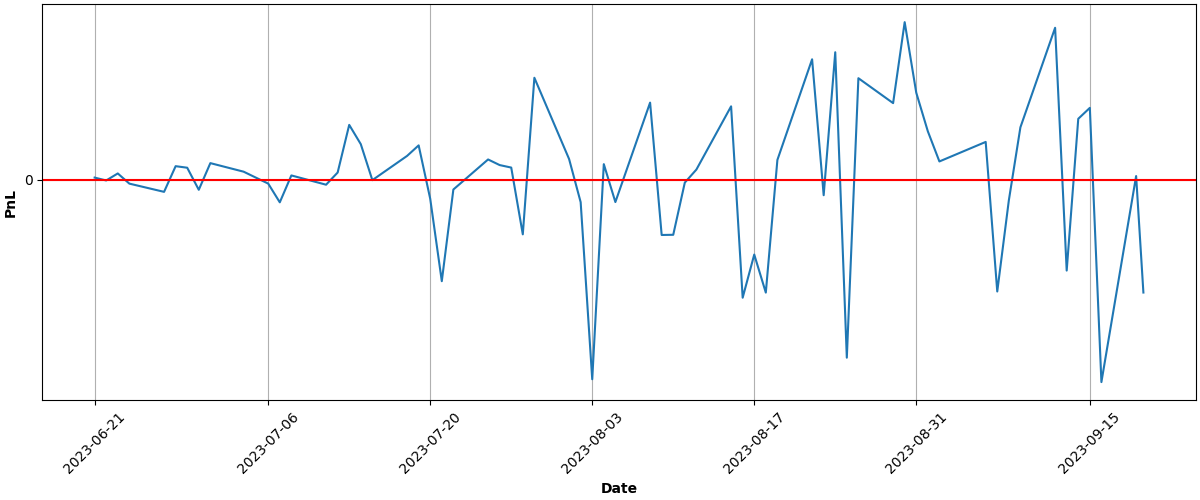
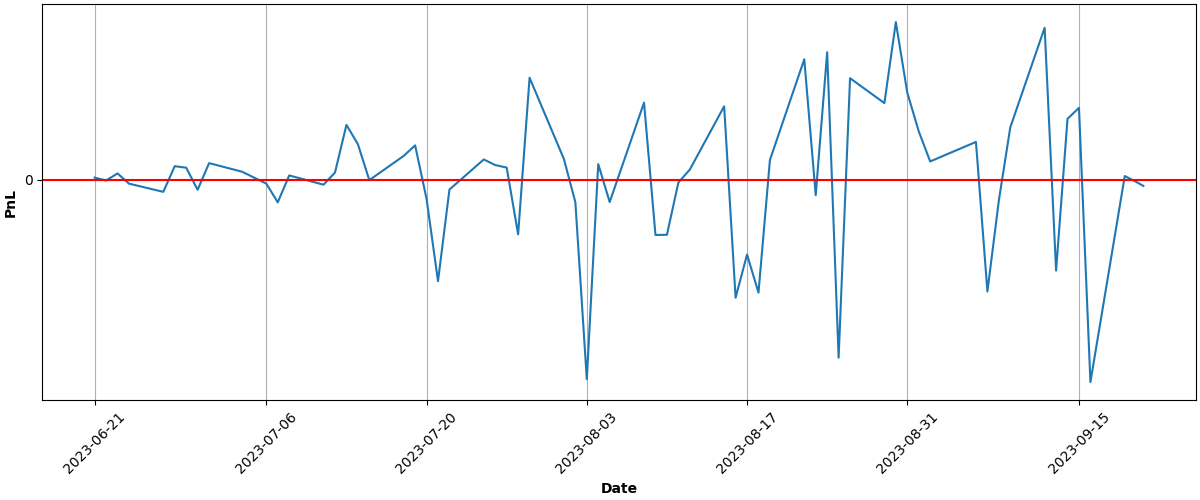
Automated Buy At Wed Sep 20 15:04:49 UTC 2023 Run ID 6250503666

diff --git a/README.md b/README.md
@@ -68,9 +68,9 @@ Results
 
 | Asset | Average Price | Current Price | ROI | 📈 |
 | --- | --- | --- | --- | --- |
-| FNGU | $181.786726318 | $165.62 | -8.89% | &#128308;&#128546; |
-| SVIX | $28.498344444 | $31.6861 | 11.19% | &#128994;&#128515; |
-| **Total** |  |  | **1.91%** | &#128994;&#128518; |
+| FNGU | $181.568900626 | $168.2701 | -7.32% | &#128308;&#128546; |
+| SVIX | $28.498344444 | $32.69 | 14.71% | &#128994;&#128515; |
+| **Total** |  |  | **4.45%** | &#128994;&#128518; |
 
 ### PnL over time (calculations may not be accurate):
 
@@ -81,6 +81,6 @@ Results
 ---
 
 
-Updated at 2023-09-19 15:04:55
+Updated at 2023-09-20 15:05:06
 
 
